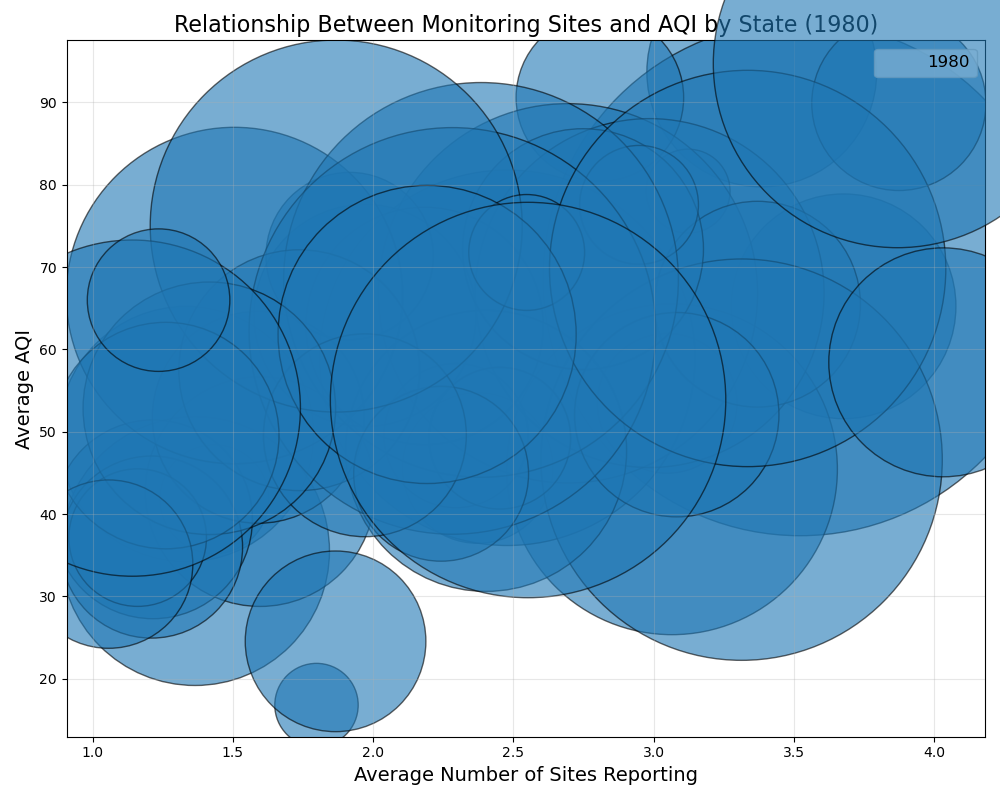
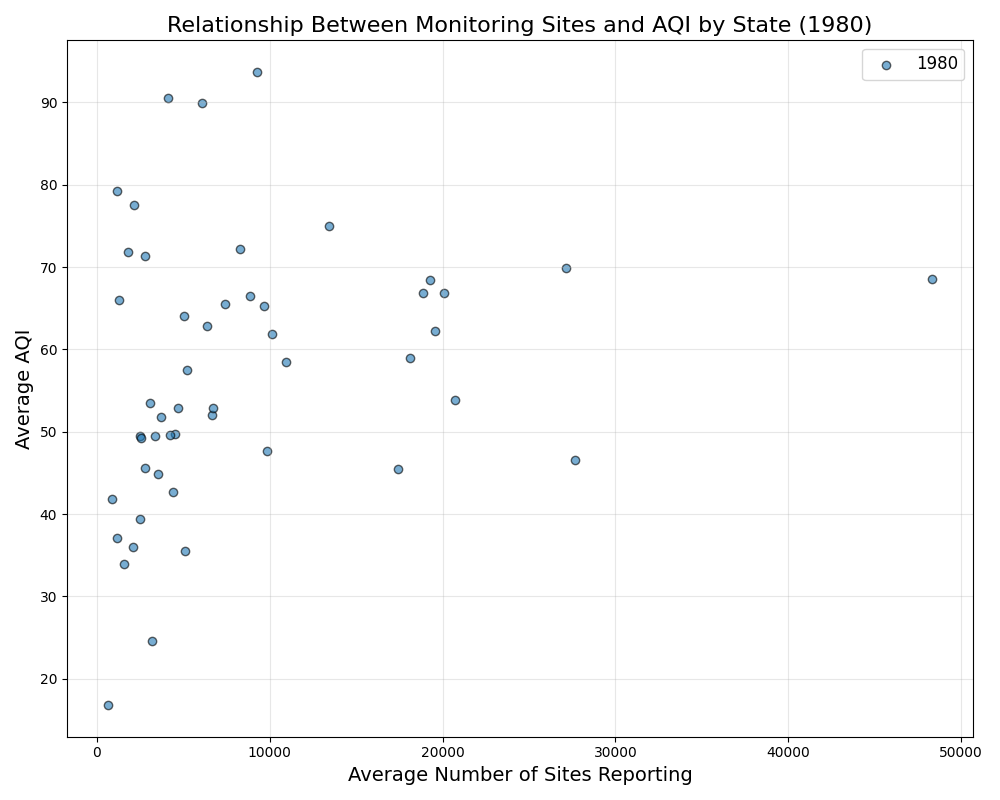
removed bubble chart

diff --git a/index.html b/index.html
@@ -264,36 +264,8 @@
         <strong>Key Insight:</strong> By 2021, many U.S. regions saw a significant shift toward "Good" and "Moderate" AQI days, reflecting successful environmental policies and regulations.
         </div>
     </section>
-    <section id="monitoring-sites">
-        <h3> Relationship between Monitoring Sites and AQI Values </h3>
-
-        <div class = 'container'>
-            <div class = 'image'>
-                <img src="bubble_chart_aqi_1980.png" frameborder="0"></img>
-            </div>
-            <div class = 'image'>
-                <img src="bubble_chart_aqi_2021.png" frameborder="0"></img>
-            </div>
-                    
-        </div>
-        <div class = 'text'>
-            <p> 
-                The bubble charts examine the relationship between the average number of monitoring 
-                sites in each state and the corresponding AQI values for 1980 and 2021. The size of 
-                each bubble represents the total number of data points for that state, providing 
-                insight into the extent of monitoring coverage. The 1980 chart shows a sparse 
-                distribution of monitoring sites and higher AQI values in many states, while the 2021 
-                chart reflects a more extensive monitoring network and improved AQI levels for many 
-                states. These visualizations are critical for assessing the impact of monitoring 
-                infrastructure on air quality management, helping to identify states that may need 
-                expanded monitoring efforts to better track and address air quality concerns.
-
-            </p>
-        </div>
-        <!-- Callout box summarizing the monitoring sites' importance -->
-        <div style="background: #f4f4f4; border-left: 4px solid #4caf50; padding: 15px; margin-top: 20px;">
-        <strong>Key Takeaway:</strong> States with more monitoring sites tend to have lower AQI levels by 2021, showcasing the role of better infrastructure in air quality management.
-        </div>
+    <section id="mapping-policies">
+        
     </section>
         
     <section id="aqi-trends">

diff --git a/visualization.py b/visualization.py
@@ -2,50 +2,60 @@ import pandas as pd
 import matplotlib.pyplot as plt
 
 # Load the datasets
-aqi_1980 = pd.read_csv('../daily_aqi_by_county_1980.csv')
-aqi_2021 = pd.read_csv('../daily_aqi_by_county_2021.csv')
+aqi_1980 = pd.read_csv("../daily_aqi_by_county_1980.csv")
+aqi_2021 = pd.read_csv("../daily_aqi_by_county_2021.csv")
 
 # Convert Date columns to datetime format and extract year
-aqi_1980['Date'] = pd.to_datetime(aqi_1980['Date'], errors='coerce')
-aqi_1980['Year'] = aqi_1980['Date'].dt.year
+aqi_1980["Date"] = pd.to_datetime(aqi_1980["Date"], errors="coerce")
+aqi_1980["Year"] = aqi_1980["Date"].dt.year
 
-aqi_2021['Date'] = pd.to_datetime(aqi_2021['Date'], errors='coerce')
-aqi_2021['Year'] = aqi_2021['Date'].dt.year
+aqi_2021["Date"] = pd.to_datetime(aqi_2021["Date"], errors="coerce")
+aqi_2021["Year"] = aqi_2021["Date"].dt.year
 
 # Combine the two datasets
 combined_aqi = pd.concat([aqi_1980, aqi_2021], ignore_index=True)
 
 # 1. Multi-Line Chart: Average AQI Trends for Top and Bottom 5 States
 # Calculate the average AQI for each state by year
-state_avg_aqi = combined_aqi.groupby(['Year', 'State Name'])['AQI'].mean().reset_index()
+state_avg_aqi = combined_aqi.groupby(["Year", "State Name"])["AQI"].mean().reset_index()
 
 # Identify the top 5 most polluted and bottom 5 least polluted states based on 1980 data
-state_avg_1980 = state_avg_aqi[state_avg_aqi['Year'] == 1980].sort_values(by='AQI', ascending=False)
-top_5_states = state_avg_1980.head(5)['State Name']
-bottom_5_states = state_avg_1980.tail(5)['State Name']
+state_avg_1980 = state_avg_aqi[state_avg_aqi["Year"] == 1980].sort_values(
+    by="AQI", ascending=False
+)
+top_5_states = state_avg_1980.head(5)["State Name"]
+bottom_5_states = state_avg_1980.tail(5)["State Name"]
 
 # Filter the data for these states across both years
-filtered_states = state_avg_aqi[state_avg_aqi['State Name'].isin(pd.concat([top_5_states, bottom_5_states]))]
+filtered_states = state_avg_aqi[
+    state_avg_aqi["State Name"].isin(pd.concat([top_5_states, bottom_5_states]))
+]
 
 # Multi-Line Chart
 plt.figure(figsize=(10, 8))
 # Plot top 5 states with solid lines
 for state in top_5_states:
-    state_data = filtered_states[filtered_states['State Name'] == state]
-    plt.plot(state_data['Year'], state_data['AQI'], marker='o', label=f'Top: {state}')
+    state_data = filtered_states[filtered_states["State Name"] == state]
+    plt.plot(state_data["Year"], state_data["AQI"], marker="o", label=f"Top: {state}")
 
 # Plot bottom 5 states with dashed lines
 for state in bottom_5_states:
-    state_data = filtered_states[filtered_states['State Name'] == state]
-    plt.plot(state_data['Year'], state_data['AQI'], linestyle='--', marker='x', label=f'Bottom: {state}')
+    state_data = filtered_states[filtered_states["State Name"] == state]
+    plt.plot(
+        state_data["Year"],
+        state_data["AQI"],
+        linestyle="--",
+        marker="x",
+        label=f"Bottom: {state}",
+    )
 
-plt.title('AQI Trends for Top and Bottom 5 States (1980 vs 2021)', fontsize=16)
-plt.xlabel('Year', fontsize=14)
-plt.ylabel('Average AQI', fontsize=14)
+plt.title("AQI Trends for Top and Bottom 5 States (1980 vs 2021)", fontsize=16)
+plt.xlabel("Year", fontsize=14)
+plt.ylabel("Average AQI", fontsize=14)
 plt.xticks([1980, 2021], fontsize=12)
 plt.yticks(fontsize=12)
 plt.legend(fontsize=12)
-plt.grid(axis='y', linestyle='--', alpha=0.7)
+plt.grid(axis="y", linestyle="--", alpha=0.7)
 plt.tight_layout()
 plt.savefig("multi_line_aqi_trends.png")
 plt.show()
@@ -53,38 +63,101 @@ plt.show()
 # 2. Stacked Bar Chart: AQI Category Distribution by Region
 # Define regions
 regions = {
-    'Northeast': ['Connecticut', 'Maine', 'Massachusetts', 'New Hampshire', 'Rhode Island', 'Vermont',
-                  'New Jersey', 'New York', 'Pennsylvania'],
-    'Midwest': ['Illinois', 'Indiana', 'Iowa', 'Kansas', 'Michigan', 'Minnesota', 'Missouri', 'Nebraska',
-                'North Dakota', 'Ohio', 'South Dakota', 'Wisconsin'],
-    'South': ['Alabama', 'Arkansas', 'Delaware', 'Florida', 'Georgia', 'Kentucky', 'Louisiana', 'Maryland',
-              'Mississippi', 'North Carolina', 'Oklahoma', 'South Carolina', 'Tennessee', 'Texas', 'Virginia',
-              'West Virginia'],
-    'West': ['Alaska', 'Arizona', 'California', 'Colorado', 'Hawaii', 'Idaho', 'Montana', 'Nevada', 'New Mexico',
-             'Oregon', 'Utah', 'Washington', 'Wyoming']
+    "Northeast": [
+        "Connecticut",
+        "Maine",
+        "Massachusetts",
+        "New Hampshire",
+        "Rhode Island",
+        "Vermont",
+        "New Jersey",
+        "New York",
+        "Pennsylvania",
+    ],
+    "Midwest": [
+        "Illinois",
+        "Indiana",
+        "Iowa",
+        "Kansas",
+        "Michigan",
+        "Minnesota",
+        "Missouri",
+        "Nebraska",
+        "North Dakota",
+        "Ohio",
+        "South Dakota",
+        "Wisconsin",
+    ],
+    "South": [
+        "Alabama",
+        "Arkansas",
+        "Delaware",
+        "Florida",
+        "Georgia",
+        "Kentucky",
+        "Louisiana",
+        "Maryland",
+        "Mississippi",
+        "North Carolina",
+        "Oklahoma",
+        "South Carolina",
+        "Tennessee",
+        "Texas",
+        "Virginia",
+        "West Virginia",
+    ],
+    "West": [
+        "Alaska",
+        "Arizona",
+        "California",
+        "Colorado",
+        "Hawaii",
+        "Idaho",
+        "Montana",
+        "Nevada",
+        "New Mexico",
+        "Oregon",
+        "Utah",
+        "Washington",
+        "Wyoming",
+    ],
 }
 
 # Assign regions to both datasets
-combined_aqi['Region'] = 'Other' # Default value
+combined_aqi["Region"] = "Other"  # Default value
 for region, states in regions.items():
-    combined_aqi.loc[combined_aqi['State Name'].isin(states), 'Region'] = region
+    combined_aqi.loc[combined_aqi["State Name"].isin(states), "Region"] = region
 
 # Group by region and category for 1980 and 2021 separately
-region_category_1980 = combined_aqi[combined_aqi['Year'] == 1980].groupby(['Region', 'Category']).size().unstack(fill_value=0)
-region_category_2021 = combined_aqi[combined_aqi['Year'] == 2021].groupby(['Region', 'Category']).size().unstack(fill_value=0)
+region_category_1980 = (
+    combined_aqi[combined_aqi["Year"] == 1980]
+    .groupby(["Region", "Category"])
+    .size()
+    .unstack(fill_value=0)
+)
+region_category_2021 = (
+    combined_aqi[combined_aqi["Year"] == 2021]
+    .groupby(["Region", "Category"])
+    .size()
+    .unstack(fill_value=0)
+)
 
 # Plot stacked bar charts
 fig, ax = plt.subplots(1, 2, figsize=(10, 8), sharey=True)
-region_category_1980.plot(kind='bar', stacked=True, colormap='viridis', edgecolor='black', ax=ax[0])
-ax[0].set_title('AQI Category Distribution by Region (1980)', fontsize=14)
-ax[0].set_xlabel('Region', fontsize=12)
-ax[0].set_ylabel('Frequency', fontsize=12)
-ax[0].tick_params(axis='x', rotation=45)
+region_category_1980.plot(
+    kind="bar", stacked=True, colormap="viridis", edgecolor="black", ax=ax[0]
+)
+ax[0].set_title("AQI Category Distribution by Region (1980)", fontsize=14)
+ax[0].set_xlabel("Region", fontsize=12)
+ax[0].set_ylabel("Frequency", fontsize=12)
+ax[0].tick_params(axis="x", rotation=45)
 
-region_category_2021.plot(kind='bar', stacked=True, colormap='viridis', edgecolor='black', ax=ax[1])
-ax[1].set_title('AQI Category Distribution by Region (2021)', fontsize=14)
-ax[1].set_xlabel('Region', fontsize=12)
-ax[1].tick_params(axis='x', rotation=45)
+region_category_2021.plot(
+    kind="bar", stacked=True, colormap="viridis", edgecolor="black", ax=ax[1]
+)
+ax[1].set_title("AQI Category Distribution by Region (2021)", fontsize=14)
+ax[1].set_xlabel("Region", fontsize=12)
+ax[1].tick_params(axis="x", rotation=45)
 
 plt.tight_layout()
 fig.savefig("stacked_bar_aqi_distribution.png")
@@ -92,31 +165,32 @@ plt.show()
 
 # 3. Bubble Chart: Relationship Between Number of Sites Reporting and AQI by State
 # Filter for 1980 and 2021 separately
-bubble_1980 = combined_aqi[combined_aqi['Year'] == 1980].groupby('State Name').agg({
-    'Number of Sites Reporting': 'mean',
-    'AQI': 'mean',
-    'State Name': 'count'
-}).rename(columns={'State Name': 'Data Points'})
+bubble_1980 = (
+    combined_aqi[combined_aqi["Year"] == 1980]
+    .groupby("State Name")
+    .agg({"Number of Sites Reporting": "sum", "AQI": "mean", "State Name": "count"})
+    .rename(columns={"State Name": "Data Points"})
+)
 
-bubble_2021 = combined_aqi[combined_aqi['Year'] == 2021].groupby('State Name').agg({
-    'Number of Sites Reporting': 'mean',
-    'AQI': 'mean',
-    'State Name': 'count'
-}).rename(columns={'State Name': 'Data Points'})
+bubble_2021 = (
+    combined_aqi[combined_aqi["Year"] == 2021]
+    .groupby("State Name")
+    .agg({"Number of Sites Reporting": "sum", "AQI": "mean", "State Name": "count"})
+    .rename(columns={"State Name": "Data Points"})
+)
 
 # Plot the bubble chart for 1980
 plt.figure(figsize=(10, 8))
 plt.scatter(
-    bubble_1980['Number of Sites Reporting'],
-    bubble_1980['AQI'],
-    s=bubble_1980['Data Points'] * 10,
+    bubble_1980["Number of Sites Reporting"],
+    bubble_1980["AQI"],
     alpha=0.6,
-    edgecolors='black',
-    label='1980'
+    edgecolors="black",
+    label="1980",
 )
-plt.title('Relationship Between Monitoring Sites and AQI by State (1980)', fontsize=16)
-plt.xlabel('Average Number of Sites Reporting', fontsize=14)
-plt.ylabel('Average AQI', fontsize=14)
+plt.title("Relationship Between Monitoring Sites and AQI by State (1980)", fontsize=16)
+plt.xlabel("Average Number of Sites Reporting", fontsize=14)
+plt.ylabel("Average AQI", fontsize=14)
 plt.grid(alpha=0.3)
 plt.legend(fontsize=12)
 plt.tight_layout()
@@ -126,16 +200,15 @@ plt.show()
 # Plot the bubble chart for 2021
 plt.figure(figsize=(10, 8))
 plt.scatter(
-    bubble_2021['Number of Sites Reporting'],
-    bubble_2021['AQI'],
-    s=bubble_2021['Data Points'] * 10,
+    bubble_2021["Number of Sites Reporting"],
+    bubble_2021["AQI"],
     alpha=0.6,
-    edgecolors='black',
-    label='2021'
+    edgecolors="black",
+    label="2021",
 )
-plt.title('Relationship Between Monitoring Sites and AQI by State (2021)', fontsize=16)
-plt.xlabel('Average Number of Sites Reporting', fontsize=14)
-plt.ylabel('Average AQI', fontsize=14)
+plt.title("Relationship Between Monitoring Sites and AQI by State (2021)", fontsize=16)
+plt.xlabel("Average Number of Sites Reporting", fontsize=14)
+plt.ylabel("Average AQI", fontsize=14)
 plt.grid(alpha=0.3)
 plt.legend(fontsize=12)
 plt.tight_layout()
